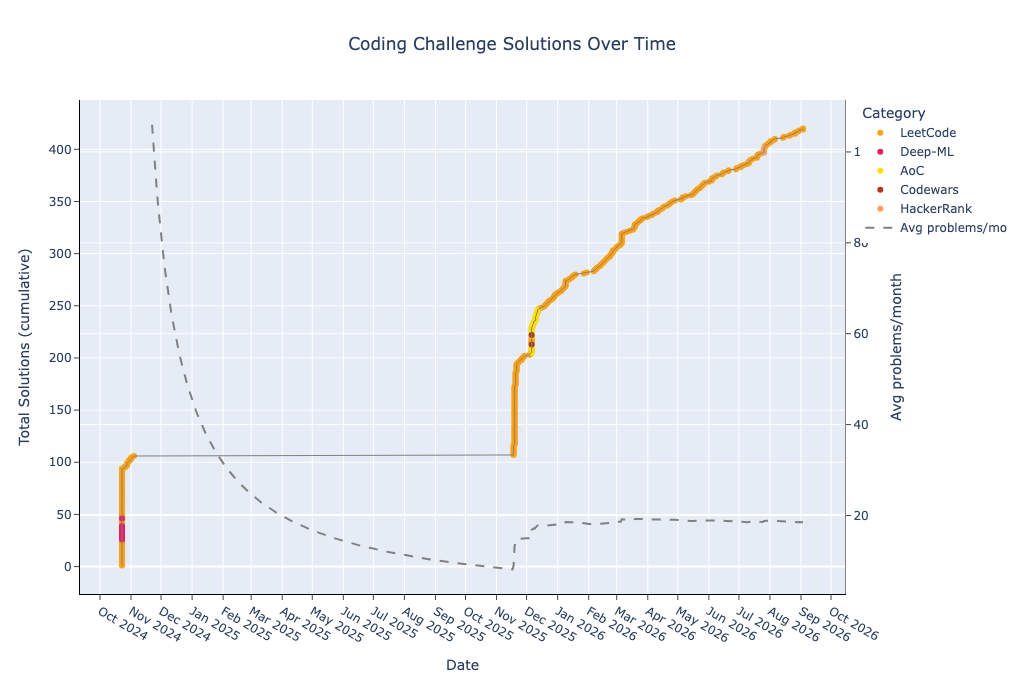
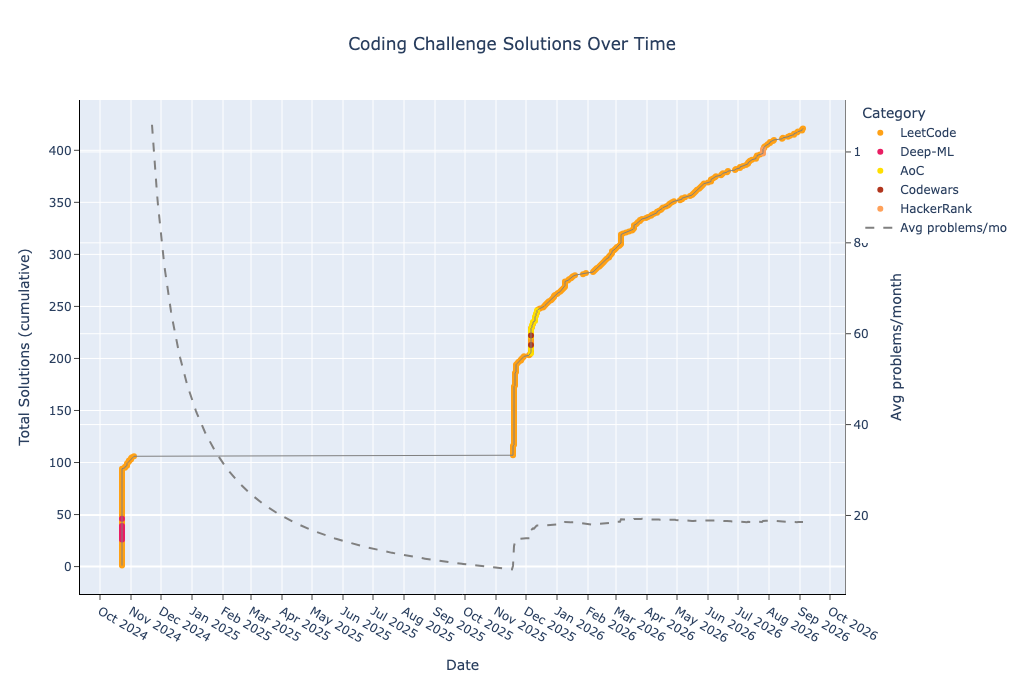
Regenerate README

diff --git a/README.md b/README.md
@@ -40,10 +40,10 @@ This repository contains a collection of coding problems solved on various platf
 | deep-ml-medium | 5 | 69 | 13 | 5 | 0 | 1 | 7 | 0 | 0 | 0 | 8 | 2 | 0 | 0 | 0 | 0 | 0 | 0 |
 | hackerrank-easy | 2 | 17 | 8 | 2 | 0 | 4 | 1 | 0 | 0 | 0 | 2 | 0 | 0 | 0 | 0 | 0 | 0 | 0 |
 | hackerrank-medium | 3 | 57 | 19 | 4 | 1 | 3 | 7 | 0 | 0 | 0 | 6 | 0 | 0 | 2 | 0 | 0 | 1 | 0 |
-| leetcode-easy | 135 | 2199 | 16 | 184 | 6 | 174 | 168 | 50 | 6 | 15 | 219 | 4 | 7 | 16 | 1 | 0 | 16 | 0 |
+| leetcode-easy | 136 | 2218 | 16 | 186 | 6 | 177 | 168 | 50 | 6 | 15 | 222 | 4 | 7 | 16 | 1 | 0 | 16 | 0 |
 | leetcode-medium | 204 | 5178 | 25 | 357 | 9 | 526 | 391 | 117 | 22 | 48 | 440 | 7 | 43 | 64 | 11 | 29 | 31 | 7 |
 | leetcode-hard | 36 | 1150 | 31 | 66 | 5 | 109 | 98 | 24 | 11 | 17 | 83 | 3 | 7 | 15 | 8 | 5 | 9 | 9 |
-| **total** | 420 | 10025 | 23 | 720 | 22 | 952 | 833 | 197 | 40 | 93 | 859 | 27 | 68 | 113 | 22 | 39 | 60 | 16 |
+| **total** | 421 | 10044 | 23 | 722 | 22 | 955 | 833 | 197 | 40 | 93 | 862 | 27 | 68 | 113 | 22 | 39 | 60 | 16 |
 
 ---
 
@@ -51,6 +51,7 @@ This repository contains a collection of coding problems solved on various platf
 
 | Date | Type | Challenge | Problem | Solution |
 | --- | --- | --- | --- | --- |
+| 2026-09-04 | LeetCode Easy | Smallest Stable Index I | [leetcode.com](https://leetcode.com/problems/smallest-stable-index-i/) | [python](leetcode/easy/3903.%20Smallest%20Stable%20Index%20I.py) |
 | 2026-09-03 | LeetCode Easy | Construct Uniform Parity Array I | [leetcode.com](https://leetcode.com/problems/construct-uniform-parity-array-i/) | [python](leetcode/easy/3875.%20Construct%20Uniform%20Parity%20Array%20I.py) |
 | 2026-09-03 | LeetCode Medium | Construct Uniform Parity Array II | [leetcode.com](https://leetcode.com/problems/construct-uniform-parity-array-ii/) | [python](leetcode/medium/3876.%20Construct%20Uniform%20Parity%20Array%20II.py) |
 | 2026-08-30 | LeetCode Medium | Removing Minimum and Maximum From Array | [leetcode.com](https://leetcode.com/problems/removing-minimum-and-maximum-from-array/) | [python](leetcode/medium/2091.%20Removing%20Minimum%20and%20Maximum%20From%20Array.py) |
@@ -60,7 +61,6 @@ This repository contains a collection of coding problems solved on various platf
 | 2026-08-26 | LeetCode Easy | Smallest Missing Multiple of K | [leetcode.com](https://leetcode.com/problems/smallest-missing-multiple-of-k/) | [python](leetcode/easy/3718.%20Smallest%20Missing%20Multiple%20of%20K.py) |
 | 2026-08-22 | LeetCode Easy | Check Divisibility by Digit Sum and Product | [leetcode.com](https://leetcode.com/problems/check-divisibility-by-digit-sum-and-product/) | [python](leetcode/easy/3622.%20Check%20Divisibility%20by%20Digit%20Sum%20and%20Product.py) |
 | 2026-08-20 | LeetCode Easy | Distribute Elements Into Two Arrays I | [leetcode.com](https://leetcode.com/problems/distribute-elements-into-two-arrays-i/) | [python](leetcode/easy/3069.%20Distribute%20Elements%20Into%20Two%20Arrays%20I.py) |
-| 2026-08-15 | LeetCode Medium | Longest Subsequence With Non-Zero Bitwise XOR | [leetcode.com](https://leetcode.com/problems/longest-subsequence-with-non-zero-bitwise-xor/) | [python](leetcode/medium/3702.%20Longest%20Subsequence%20With%20Non-Zero%20Bitwise%20XOR.py) |
 # Advent of Code
 ### 2025
 | Day | Challenge | Time | Space | Problem | Solution |
@@ -277,6 +277,7 @@ This repository contains a collection of coding problems solved on various platf
 | 3866 | First Unique Even Element | O(n) | O(n) | [leetcode.com](https://leetcode.com/problems/first-unique-even-element/) | [python](leetcode/easy/3866.%20First%20Unique%20Even%20Element.py) |
 | 3870 | Count Commas in Range | O(1) | O(1) | [leetcode.com](https://leetcode.com/problems/count-commas-in-range/) | [python](leetcode/easy/3870.%20Count%20Commas%20in%20Range.py) |
 | 3875 | Construct Uniform Parity Array I | O(n) | O(1) | [leetcode.com](https://leetcode.com/problems/construct-uniform-parity-array-i/) | [python](leetcode/easy/3875.%20Construct%20Uniform%20Parity%20Array%20I.py) |
+| 3903 | Smallest Stable Index I | O(n) | O(n) | [leetcode.com](https://leetcode.com/problems/smallest-stable-index-i/) | [python](leetcode/easy/3903.%20Smallest%20Stable%20Index%20I.py) |
 
 ### Hard
 | Nr. | Challenge | Time | Space | Problem | Solution |

diff --git a/CHANGES.md b/CHANGES.md
@@ -4,6 +4,7 @@
 
 | Date | Type | Challenge | Problem | Solution |
 | --- | --- | --- | --- | --- |
+| 2026-09-04 | LeetCode Easy | Smallest Stable Index I | [leetcode.com](https://leetcode.com/problems/smallest-stable-index-i/) | [python](leetcode/easy/3903.%20Smallest%20Stable%20Index%20I.py) |
 | 2026-09-03 | LeetCode Easy | Construct Uniform Parity Array I | [leetcode.com](https://leetcode.com/problems/construct-uniform-parity-array-i/) | [python](leetcode/easy/3875.%20Construct%20Uniform%20Parity%20Array%20I.py) |
 | 2026-09-03 | LeetCode Medium | Construct Uniform Parity Array II | [leetcode.com](https://leetcode.com/problems/construct-uniform-parity-array-ii/) | [python](leetcode/medium/3876.%20Construct%20Uniform%20Parity%20Array%20II.py) |
 | 2026-08-30 | LeetCode Medium | Removing Minimum and Maximum From Array | [leetcode.com](https://leetcode.com/problems/removing-minimum-and-maximum-from-array/) | [python](leetcode/medium/2091.%20Removing%20Minimum%20and%20Maximum%20From%20Array.py) |
@@ -13,4 +14,3 @@
 | 2026-08-26 | LeetCode Easy | Smallest Missing Multiple of K | [leetcode.com](https://leetcode.com/problems/smallest-missing-multiple-of-k/) | [python](leetcode/easy/3718.%20Smallest%20Missing%20Multiple%20of%20K.py) |
 | 2026-08-22 | LeetCode Easy | Check Divisibility by Digit Sum and Product | [leetcode.com](https://leetcode.com/problems/check-divisibility-by-digit-sum-and-product/) | [python](leetcode/easy/3622.%20Check%20Divisibility%20by%20Digit%20Sum%20and%20Product.py) |
 | 2026-08-20 | LeetCode Easy | Distribute Elements Into Two Arrays I | [leetcode.com](https://leetcode.com/problems/distribute-elements-into-two-arrays-i/) | [python](leetcode/easy/3069.%20Distribute%20Elements%20Into%20Two%20Arrays%20I.py) |
-| 2026-08-15 | LeetCode Medium | Longest Subsequence With Non-Zero Bitwise XOR | [leetcode.com](https://leetcode.com/problems/longest-subsequence-with-non-zero-bitwise-xor/) | [python](leetcode/medium/3702.%20Longest%20Subsequence%20With%20Non-Zero%20Bitwise%20XOR.py) |
